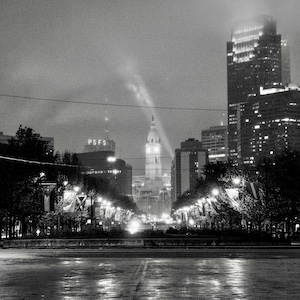
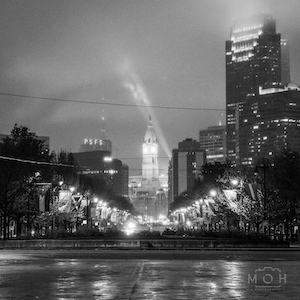
added watermark to covid project page

diff --git a/covid19project.html b/covid19project.html
@@ -73,18 +73,25 @@
   <div class="images">
     <a href="images/Covid19FS/CovidCityHall.jpg"><img src="images/Covid19TN/CovidCityHall.jpg" alt="Switzerland Stars">/</a>
     <a href="images/Covid19FS/IndependenceHall.jpg"><img src="images/Covid19TN/IndependenceHall.jpg" alt="Cali CaliCoast">/></a>
+    <a href="images/Covid19FS/COVIDFlag.jpg"><img src="images/Covid19TN/COVIDFlag.jpg" alt="Lucerne Sunset">/></a>
     <a href="images/Covid19FS/KarunaMask.jpg"><img src="images/Covid19TN/KarunaMask.jpg" alt="Lucerne Sunset">/></a>
+    <a href="images/Covid19FS/COVIDFlagCloseUP.jpg"><img src="images/Covid19TN/COVIDFlagCloseUp.jpg" alt="photo one">/></a>
     <a href="images/Covid19FS/LoveStatue.jpg"><img src="images/Covid19TN/LoveStatue.jpg" alt="photo one">/></a>
     <a href="images/Covid19FS/ThankyouPhilly.JPG"><img src="images/Covid19TN/ThankyouPhilly.jpg" alt="photo one">/></a>
     <a href="images/Covid19FS/Cross.jpg"><img src="images/Covid19TN/cross.jpg" alt="photo one">/></a>
     <a href="images/Covid19FS/EmptyLoveStatue.jpg"><img src="images/Covid19TN/EmptyLoveStatue.jpg" alt="photo one">/></a>
+    <a href="images/Covid19FS/COVIDMe.jpg"><img src="images/Covid19TN/COVIDMe.jpg" alt="photo one">/></a>
     <a href="images/Covid19FS/EmptyStreet.jpg"><img src="images/Covid19TN/EmptyStreet.jpg" alt="photo one">/></a>
     <a href="images/Covid19FS/IndependenceHall2.jpg"><img src="images/Covid19TN/IndependenceHall2.jpg" alt="photo one">/></a>
     <a href="images/Covid19FS/Karuna2.jpg"><img src="images/Covid19TN/Karuna2.jpg" alt="photo one">/></a>
     <a href="images/Covid19FS/LibertyBell.JPG"><img src="images/Covid19TN/LibertyBell.jpg" alt="photo one">/></a>
+    <a href="/Users/annemariehin/bootcamp/MonyHinPhotography/images/Covid19FS/BillofResponsibilities.jpg"><img src="images/Covid19TN/BillofResponsibilities.jpg" alt="photo one">/></a>
     <a href="images/Covid19FS/Rocky.JPG"><img src="images/Covid19TN/rocky.jpg" alt="photo one">/></a>
+    <a href="images/Covid19FS/COVIDAltar.jpg"><img src="images/Covid19TN/COVIDAltar.jpg" alt="photo one">/></a>
     <a href="images/Covid19FS/Museum.JPG"><img src="images/Covid19TN/museum.jpg" alt="photo one">/></a>
     <a href="images/Covid19FS/KarunaLoveStatue.jpg"><img src="images/Covid19TN/KarunaLoveStatue.jpg" alt="photo one">/></a>
+    <a href="images/Covid19FS/KarunaLoveStatue.jpg"><img src="images/Covid19TN/COVID1.jpg" alt="photo one">/></a>
+    <a href="images/Covid19FS/COVIDMewithFlag.jpg"><img src="images/Covid19TN/DSCF7251-2.jpg" alt="photo one">/></a>
   </div>
 </div>
 <br>
